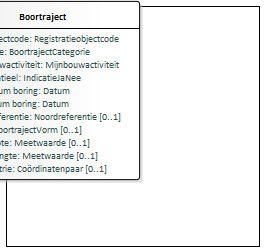
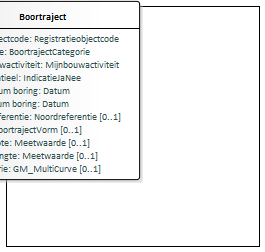
Conceptualmodel-MijnbouwconstructiesEPC-conceptueel-0.1versie27juli2020-1-20200727-20201002-120436

Changed region(s): [[0.0, 0.6389, 0.4226, 0.6944]]

diff --git a/data/EPC-cat.msword.html b/data/EPC-cat.msword.html
@@ -15,7 +15,7 @@
    <body>
       <p>Conceptual model/Mijnbouwconstructies (EPC) - conceptueel/20200727</p>
       <p>Imvertor: 1.61.3</p>
-      <p>Model release: Conceptualmodel-MijnbouwconstructiesEPC-conceptueel-0.1versie27juli2020-1-20200727-20201001-160919</p>
+      <p>Model release: Conceptualmodel-MijnbouwconstructiesEPC-conceptueel-0.1versie27juli2020-1-20200727-20201002-120436</p>
       <hr>
       <section>
          <h1>Artikel 1 Definitie van registratieobject, entiteiten en attributen</h1>
@@ -63,7 +63,7 @@
          <section>
             <h2>Het domeinmodel</h2>
             <section id="">
-               <div class="imageinfo overview"><img src="Images/EAID_017CB205_53B6_4659_8664_F773CFA9FA2C.png" usemap="#imagemap-EAID_017CB205_53B6_4659_8664_F773CFA9FA2C" alt="Diagram "><map name="imagemap-EAID_017CB205_53B6_4659_8664_F773CFA9FA2C"><area shape="rect" alt="Gestandaardiseerde locatie" coords="625,509,863,590" href="#graph_EAID_95E39295_3080_4135_862A_30756039B864"><area shape="rect" alt="Gemeten punt" coords="363,755,520,843" href="#graph_EAID_5A1B04C2_2C34_4376_8F2B_27867C2DD65B"><area shape="rect" alt="Boortraject" coords="344,509,539,685" href="#graph_EAID_4E52826A_2252_4994_8AD0_986AD45E18C9"><area shape="rect" alt="Boorgat" coords="345,386,539,448" href="#graph_EAID_65D8EFAF_B4C4_4398_899C_9BFD5D3AF67A"><area shape="rect" alt="Mijnbouwwerk" coords="357,193,527,346" href="#graph_EAID_69DE8D60_7E06_4b57_94CD_8338348EDAE5"><area shape="rect" alt="Registratiegeschiedenis" coords="35,193,271,382" href="#graph_EAID_8550146B_496A_40ca_BE86_AFD377E5A6D8"><area shape="rect" alt="Aangeleverde verticale positie" coords="625,352,896,481" href="#graph_EAID_A249D799_B098_49cd_98AA_DCAE0EB07DE7"><area shape="rect" alt="Aangeleverde locatie" coords="625,187,878,328" href="#graph_EAID_EDA11EEA_8FED_44be_AC04_18B58CB46F11"></map><p><b>Mijnbouwconstructies (EPC) -  overzicht</b></p>
+               <div class="imageinfo overview"><img src="Images/EAID_017CB205_53B6_4659_8664_F773CFA9FA2C.png" usemap="#imagemap-EAID_017CB205_53B6_4659_8664_F773CFA9FA2C" alt="Diagram "><map name="imagemap-EAID_017CB205_53B6_4659_8664_F773CFA9FA2C"><area shape="rect" alt="Gestandaardiseerde locatie" coords="625,372,863,453" href="#graph_EAID_95E39295_3080_4135_862A_30756039B864"><area shape="rect" alt="Gemeten punt" coords="363,618,520,706" href="#graph_EAID_5A1B04C2_2C34_4376_8F2B_27867C2DD65B"><area shape="rect" alt="Boortraject" coords="344,372,539,548" href="#graph_EAID_4E52826A_2252_4994_8AD0_986AD45E18C9"><area shape="rect" alt="Boorgat" coords="345,249,539,311" href="#graph_EAID_65D8EFAF_B4C4_4398_899C_9BFD5D3AF67A"><area shape="rect" alt="Mijnbouwwerk" coords="357,56,527,209" href="#graph_EAID_69DE8D60_7E06_4b57_94CD_8338348EDAE5"><area shape="rect" alt="Registratiegeschiedenis" coords="35,56,271,245" href="#graph_EAID_8550146B_496A_40ca_BE86_AFD377E5A6D8"><area shape="rect" alt="Aangeleverde verticale positie" coords="625,215,896,344" href="#graph_EAID_A249D799_B098_49cd_98AA_DCAE0EB07DE7"><area shape="rect" alt="Aangeleverde locatie" coords="625,50,878,191" href="#graph_EAID_EDA11EEA_8FED_44be_AC04_18B58CB46F11"></map><p><b>Mijnbouwconstructies (EPC) -  overzicht</b></p>
                </div>
             </section>
          </section>
@@ -2659,6 +2659,15 @@
                               <td>Attribuut van Boortraject</td>
                            </tr>
                            <tr>
+                              <th>Definitie</th>
+                              <td>
+                                 
+                                 <p>
+                                    <strong>JV:</strong> naam is ter heroverweging. Bijv. geometrie is hier bedoeld als 3d-lijn. Type nog
+                                    goed instellen.</p>
+                                 </td>
+                           </tr>
+                           <tr>
                               <th>Juridische status</th>
                               <td>Authentiek</td>
                            </tr>
@@ -2672,7 +2681,7 @@
                            </tr>
                            <tr>
                               <th>&nbsp;&nbsp;Naam</th>
-                              <td>Coördinatenpaar</td>
+                              <td>GM_MultiCurve</td>
                            </tr>
                            <tr>
                               <th>Regels</th>
